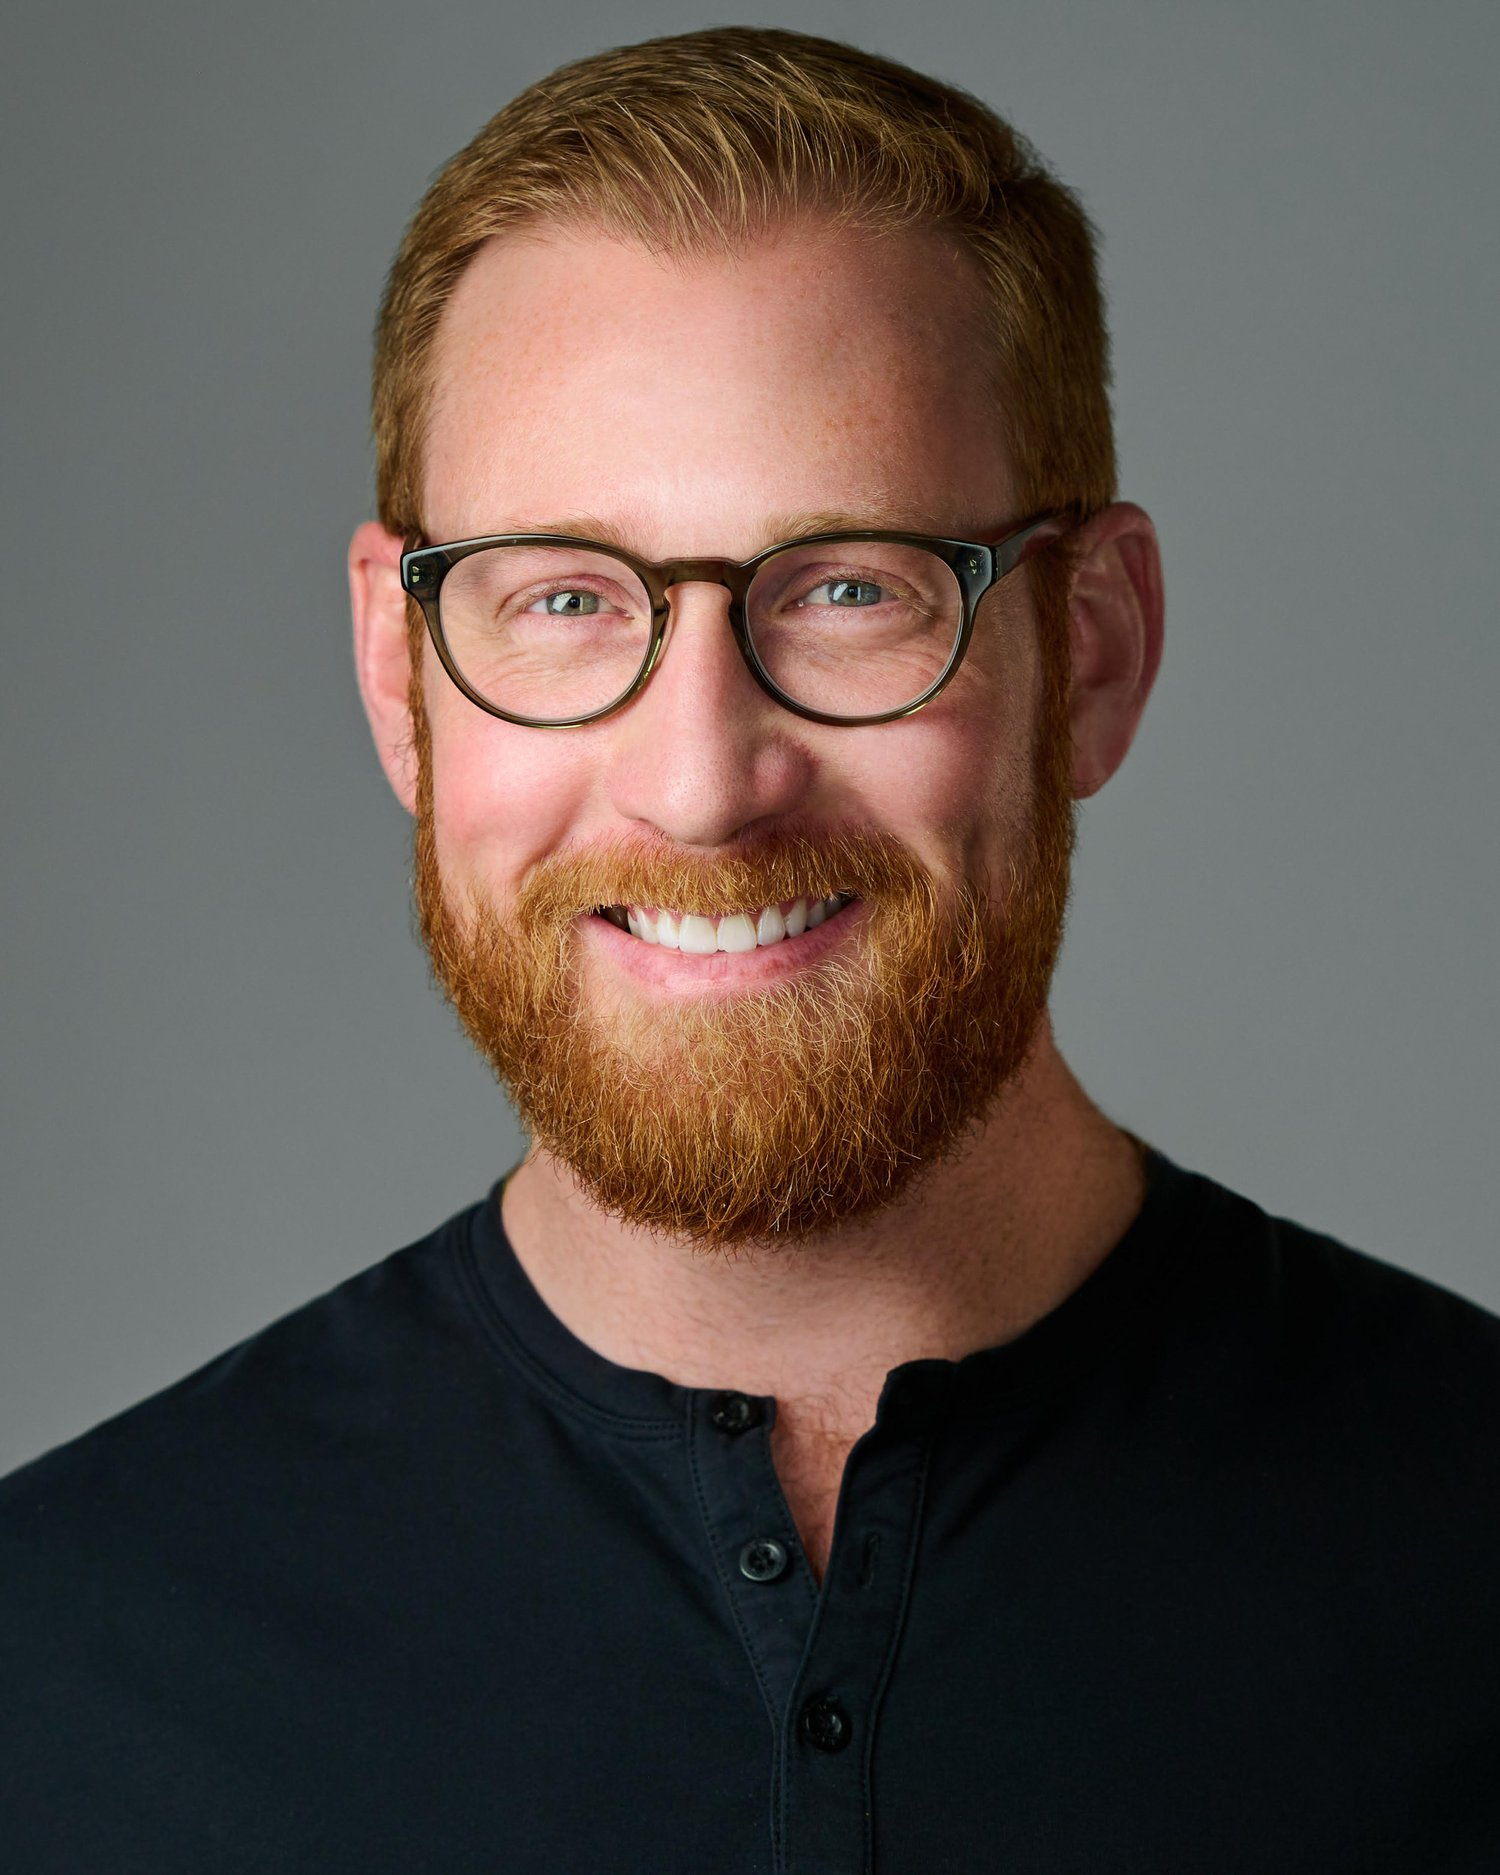
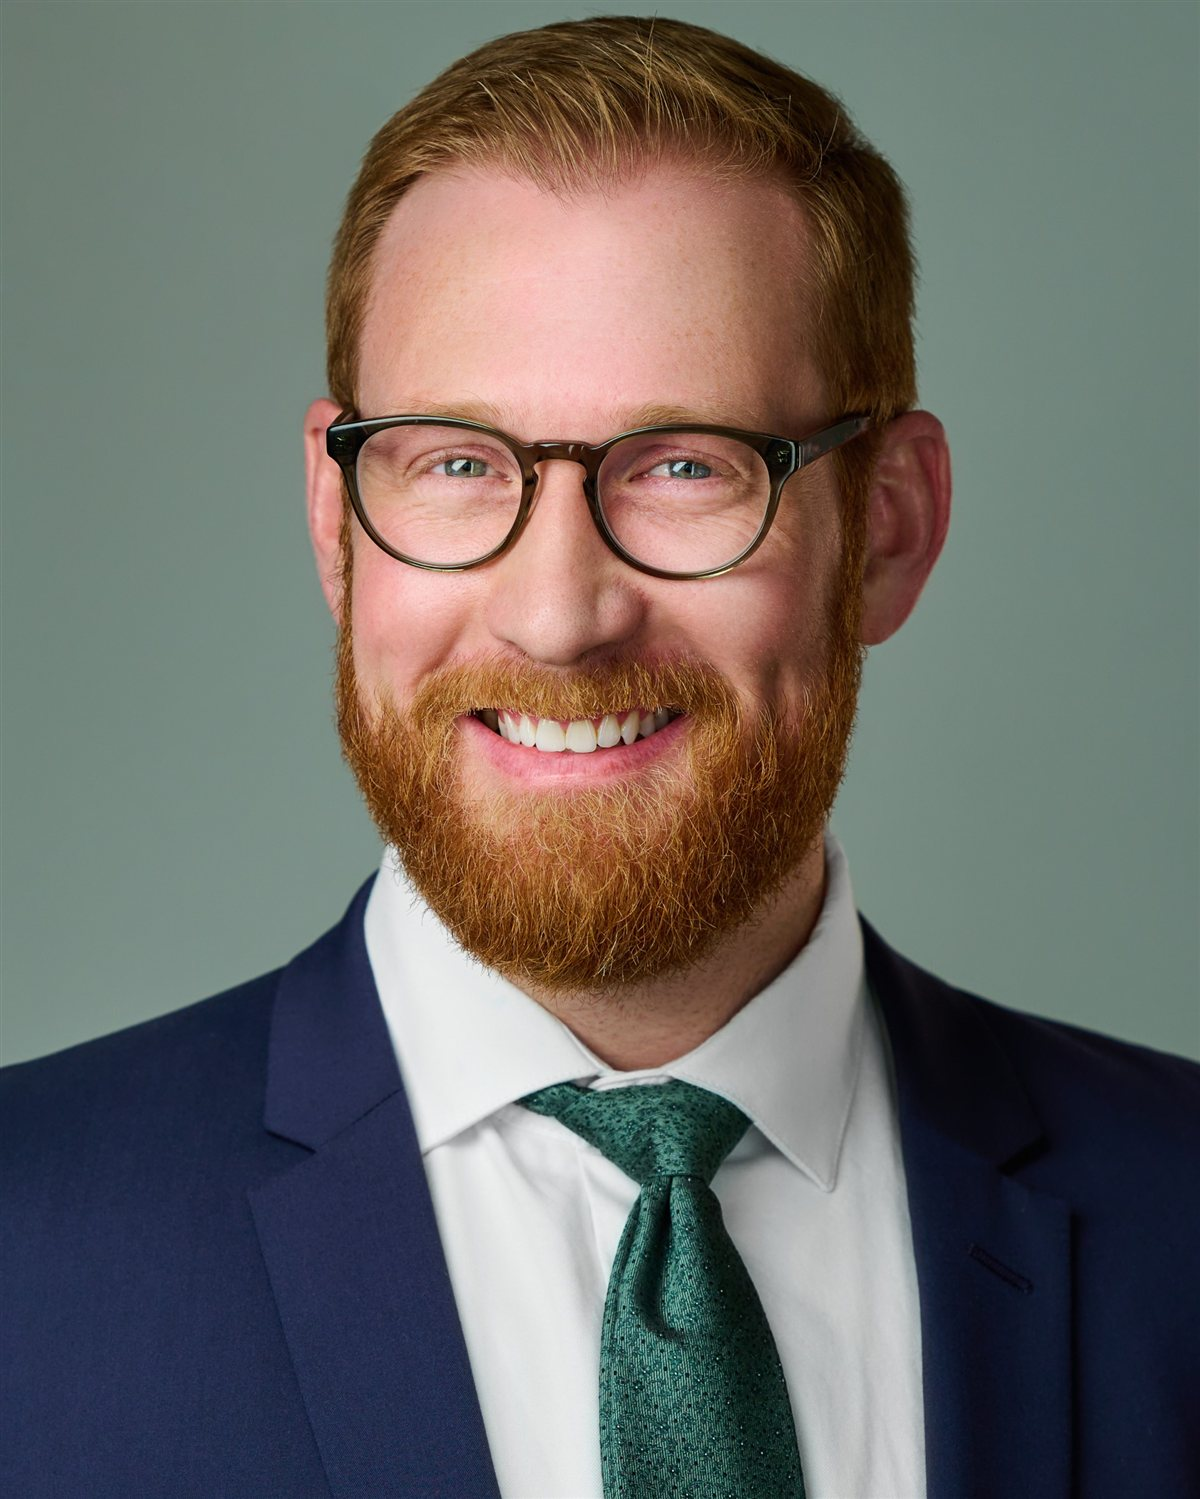
Use professional headshot on About page; adjust hero portrait crop and caption

diff --git a/css/styles.css b/css/styles.css
@@ -211,7 +211,7 @@ img { max-width: 100%; display: block; }
   height: clamp(200px, 24vw, 300px);
   border-radius: 50%;
   object-fit: cover;
-  object-position: center 20%;
+  object-position: center 5%;
   border: 4px solid var(--gold);
   box-shadow:
     0 0 0 12px rgba(193, 154, 91, 0.14),

diff --git a/index.html b/index.html
@@ -61,7 +61,7 @@
       </div>
       <div class="hero-portrait">
         <img src="images/jarred-marks-home.jpg" alt="Jarred Marks, Attorney" width="800" height="1000">
-        <p class="hero-portrait-caption">Jarred Marks<span>Attorney &amp; Counselor at Law</span></p>
+        <p class="hero-portrait-caption">Jarred Marks<span>Attorney at Law</span></p>
       </div>
     </div>
   </section>